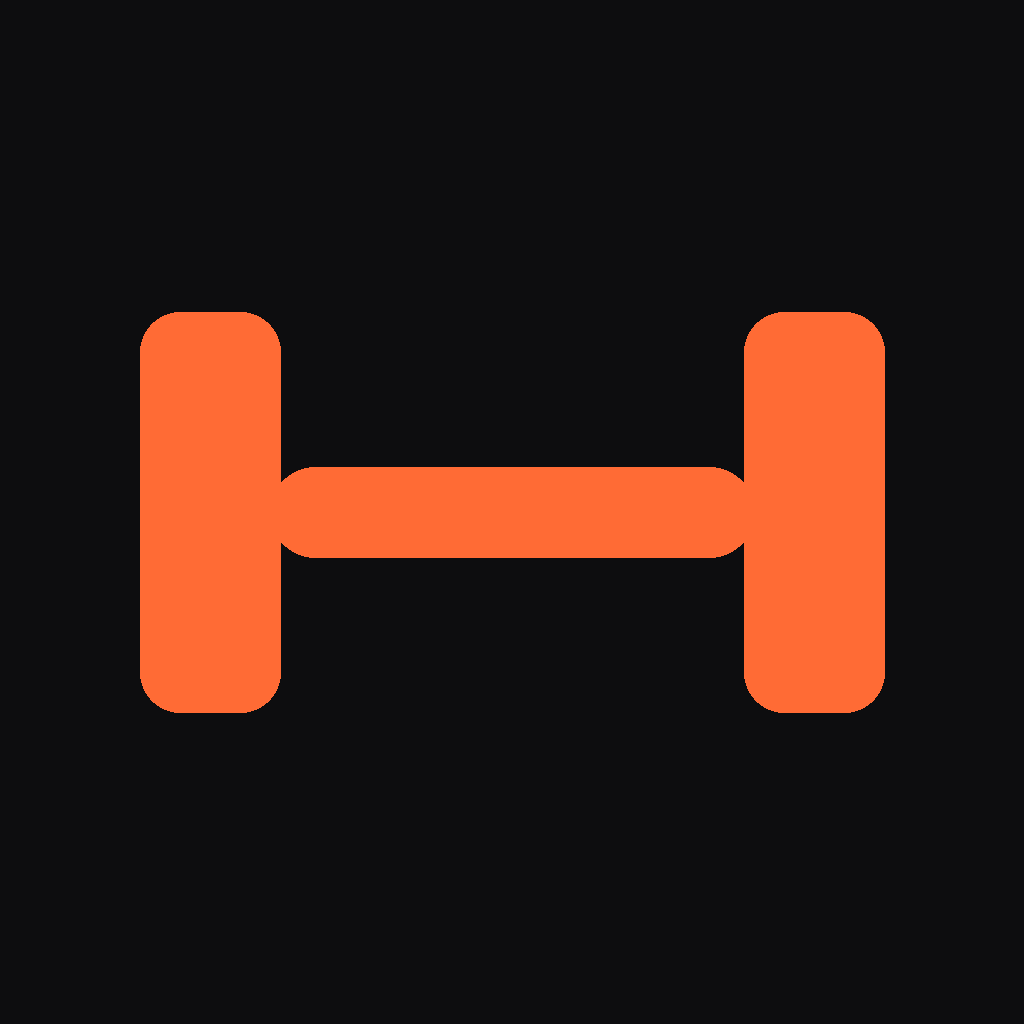
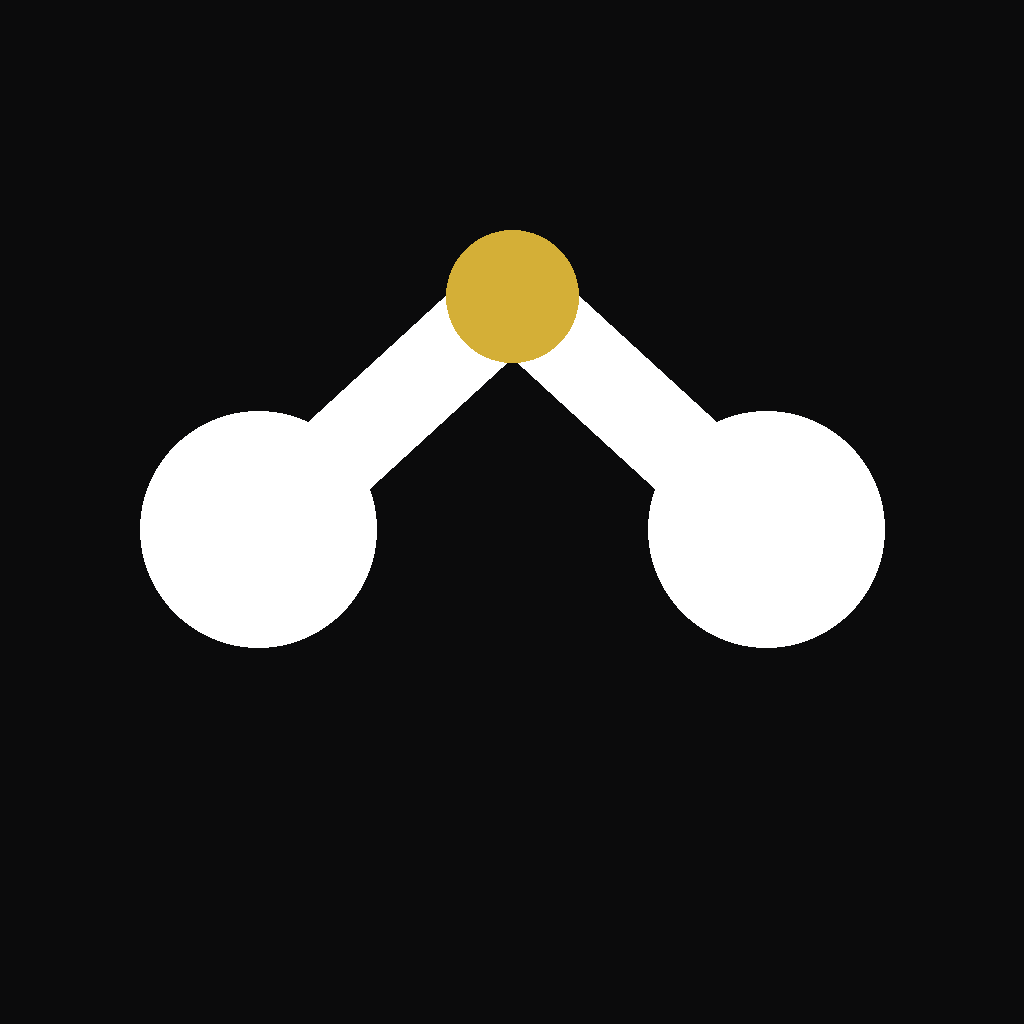
Updated app, assets, src, README

Changed region(s): [[0.125, 0.2188, 0.875, 0.7188]]

diff --git a/src/constants/theme.ts b/src/constants/theme.ts
@@ -18,7 +18,7 @@ export interface Colors {
 }
 
 export const ACCENT_PRESETS = [
-  "#FF6B35", // orange (default)
+  "#D4AF37", // gold (default — Atlas brand accent)
   "#4B9FFF", // blue
   "#3DDC84", // green
   "#FF5A5F", // red
@@ -47,30 +47,30 @@ function contrastText(hex: string): string {
 }
 
 const darkBase: Omit<Colors, "accent" | "accentMuted" | "accentText"> = {
-  background: "#0D0D0F",
-  surface: "#1A1A1E",
-  surfaceElevated: "#232327",
-  border: "#2C2C31",
+  background: "#0B0B0C",
+  surface: "#161618",
+  surfaceElevated: "#1D1D20",
+  border: "#242428",
   success: "#3DDC84",
   danger: "#FF5A5F",
-  warning: "#FFC24B",
-  textPrimary: "#F5F5F7",
-  textSecondary: "#A0A0A8",
-  textTertiary: "#6B6B72",
+  warning: "#D97706",
+  textPrimary: "#FFFFFF",
+  textSecondary: "#B8B8C0",
+  textTertiary: "#6E6E76",
   overlay: "rgba(0,0,0,0.6)",
 };
 
 const lightBase: Omit<Colors, "accent" | "accentMuted" | "accentText"> = {
-  background: "#F5F5F7",
+  background: "#F5F5F5",
   surface: "#FFFFFF",
-  surfaceElevated: "#F0F0F2",
-  border: "#E0E0E3",
+  surfaceElevated: "#F0F0F1",
+  border: "#E4E4E7",
   success: "#1FAA5F",
   danger: "#E23F45",
-  warning: "#C98A1E",
-  textPrimary: "#16161A",
-  textSecondary: "#55555C",
-  textTertiary: "#8A8A91",
+  warning: "#B5790A",
+  textPrimary: "#0B0B0C",
+  textSecondary: "#6B6B76",
+  textTertiary: "#9A9AA2",
   overlay: "rgba(0,0,0,0.3)",
 };
 
@@ -84,7 +84,7 @@ export function getColors(mode: ThemeMode, accent: string): Colors {
   };
 }
 
-// Default (dark, orange accent) colors — used only as a fallback before
+// Default (dark, gold accent) colors — used only as a fallback before
 // settings load. Screens should get live colors from useTheme().
 export const colors: Colors = getColors("dark", ACCENT_PRESETS[0]);
 

diff --git a/src/db/schema.ts b/src/db/schema.ts
@@ -6,7 +6,7 @@ CREATE TABLE IF NOT EXISTS usersettings (
   units TEXT NOT NULL DEFAULT 'lb',
   default_rest_seconds INTEGER NOT NULL DEFAULT 90,
   theme TEXT NOT NULL DEFAULT 'dark',
-  accent_color TEXT NOT NULL DEFAULT '#FF6B35'
+  accent_color TEXT NOT NULL DEFAULT '#D4AF37'
 );
 
 CREATE TABLE IF NOT EXISTS exercises (
@@ -179,4 +179,8 @@ export const MIGRATIONS_SQL: string[] = [
   `ALTER TABLE usersettings ADD COLUMN water_goal_ml INTEGER NOT NULL DEFAULT 2500;`,
   `ALTER TABLE usersettings ADD COLUMN water_unit TEXT NOT NULL DEFAULT 'mL';`,
   `ALTER TABLE usersettings ADD COLUMN tab_order TEXT;`,
+  // Atlas rebrand: move installs still on the old default orange accent to
+  // the new gold brand color. Anyone who picked a different accent already
+  // keeps their choice.
+  `UPDATE usersettings SET accent_color = '#D4AF37' WHERE id = 1 AND accent_color = '#FF6B35';`,
 ];

diff --git a/app/(tabs)/settings.tsx b/app/(tabs)/settings.tsx
@@ -477,9 +477,9 @@ export default function SettingsScreen() {
 
       <SectionHeader title="About" />
       <Card style={styles.aboutCard}>
-        <Text style={styles.aboutTitle}>Gym Tracker</Text>
+        <Text style={styles.aboutTitle}>Atlas</Text>
         <Text style={styles.aboutText}>
-          A personal fitness tracker. All data is stored locally on this device
+          A personal fitness platform. All data is stored locally on this device
           in SQLite. Nothing is sent anywhere unless you use AI photo logging,
           which sends just that one photo to Claude to estimate macros.
         </Text>

diff --git a/src/utils/exportImport.ts b/src/utils/exportImport.ts
@@ -39,7 +39,7 @@ export async function exportWorkoutData(db: SQLiteDatabase): Promise<string> {
   if (await Sharing.isAvailableAsync()) {
     await Sharing.shareAsync(fileUri, {
       mimeType: "application/json",
-      dialogTitle: "Export Gym Tracker Data",
+      dialogTitle: "Export Atlas Data",
       UTI: "public.json",
     });
   }

diff --git a/README.md b/README.md
@@ -1,6 +1,6 @@
-# Gym Tracker
+# Atlas
 
-A personal, fully offline workout tracker for iPhone, inspired by Strong. Built with
+A personal, offline-first fitness platform for iPhone. Built with
 Expo, React Native, TypeScript, Expo Router, and a local SQLite database. There is no
 backend, no login, and no network calls — everything lives on your phone.
 